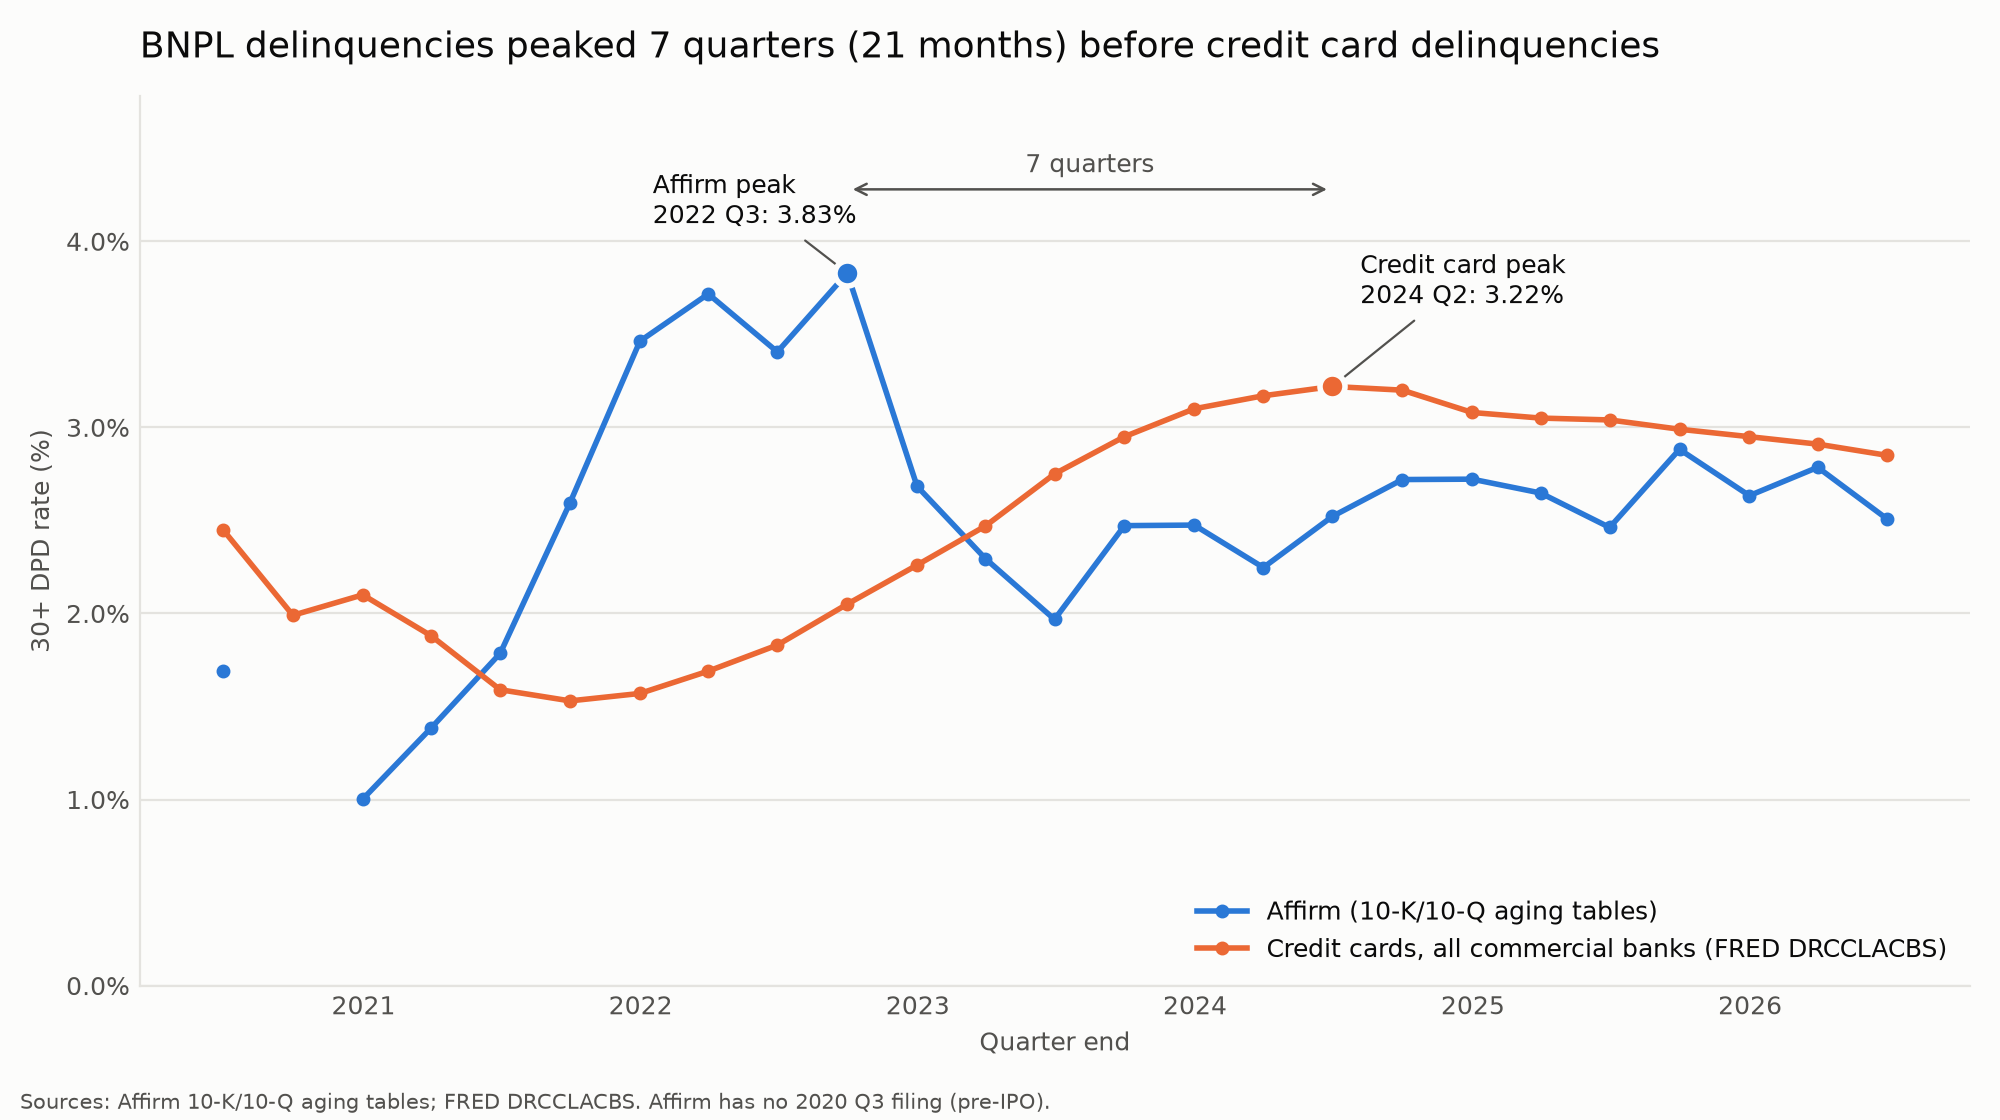
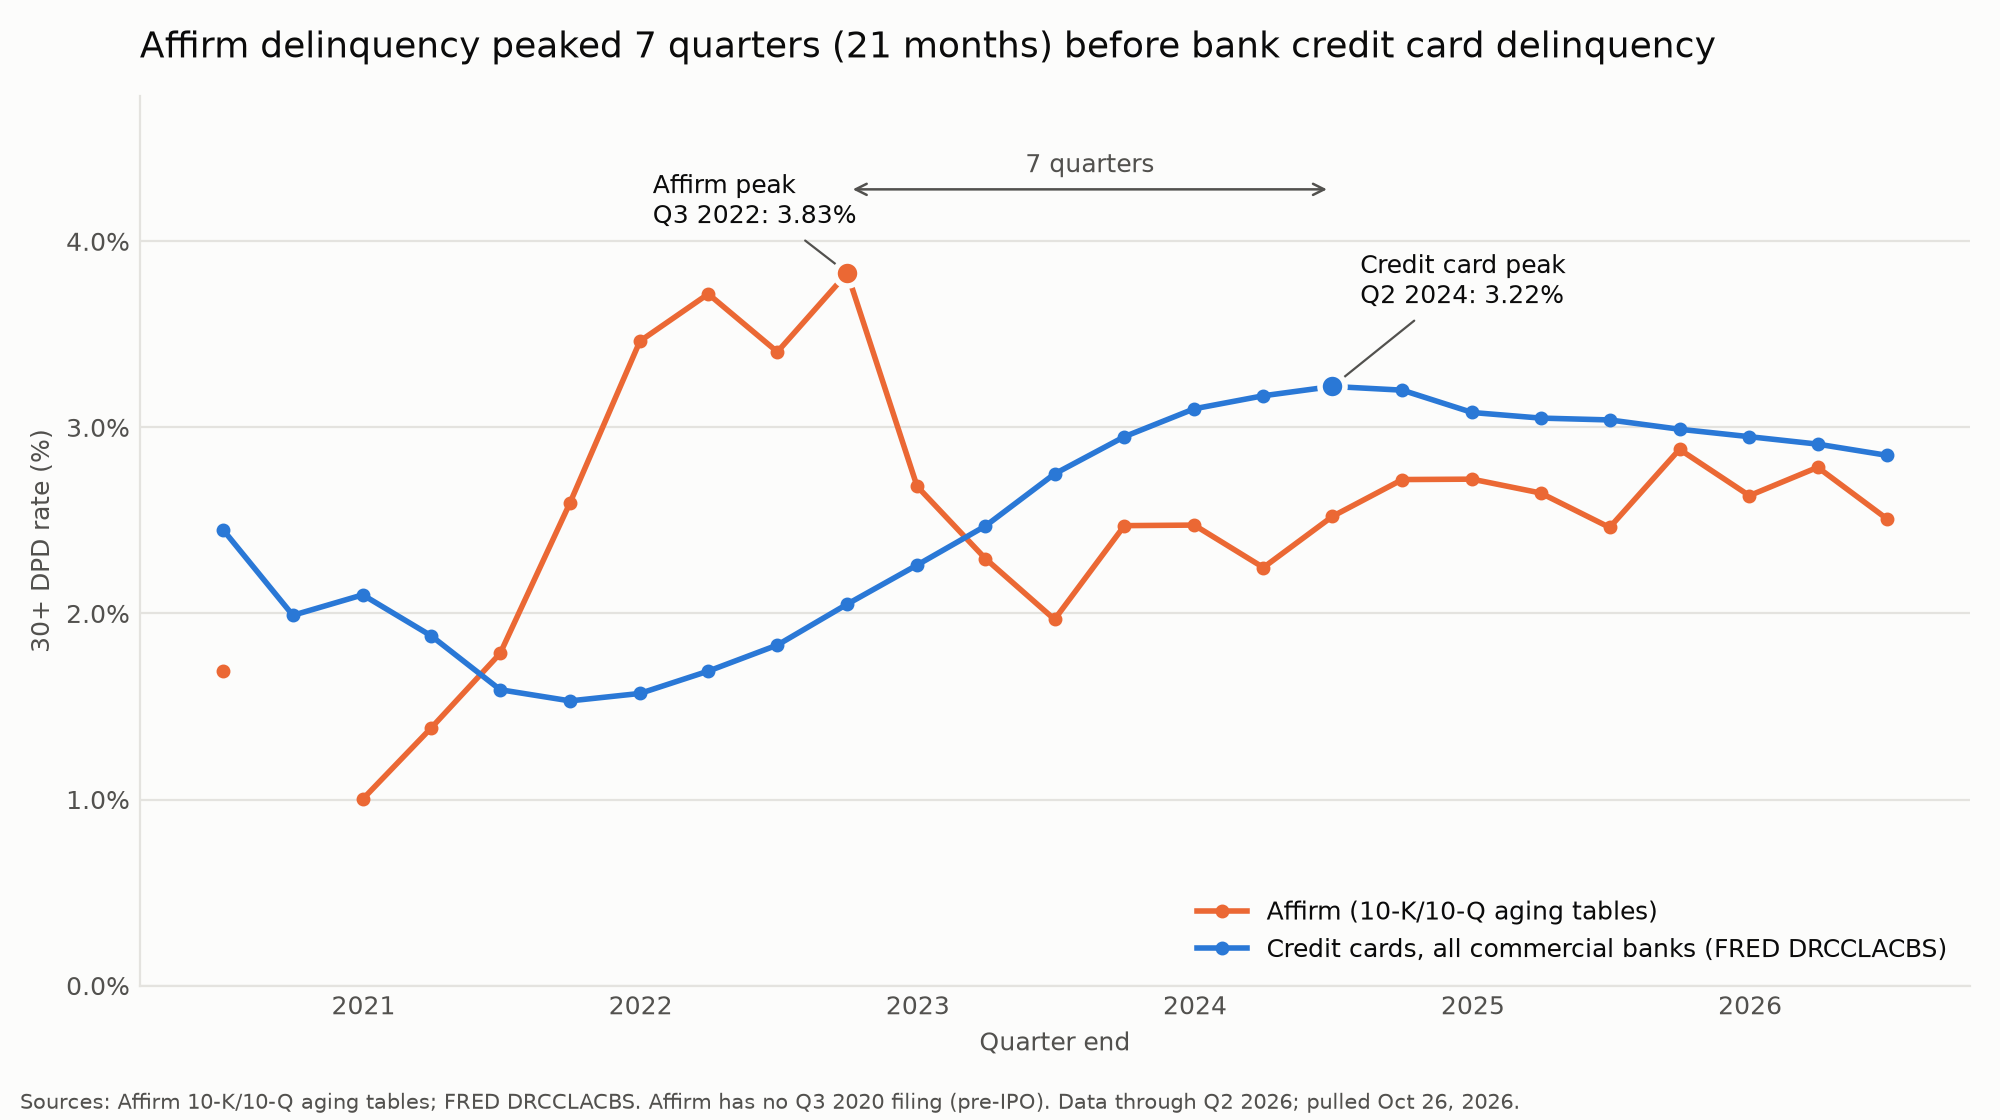
Tufte audit: log every visual, fix the failures it found
- docs/tufte_audit_log.md: 15 visuals against the five Lecture 12 tests,
  pre-filled for Samruddhi's peer review and sign-off
- Static headline chart: colors matched to the dashboard (they were
  reversed), title says Affirm not BNPL, Q3 2022 label format, as-of date
- Dashboard: as-of stamp on every chart subtitle
- README: point to the audit log

diff --git a/dashboard/index.html b/dashboard/index.html
@@ -56,6 +56,8 @@
   .page-intro h1 { font-size: 24px; margin: 0; letter-spacing: -.01em; }
   .page-intro p { margin: 0; color: var(--ink-2); font-size: 14px; }
   .hint { color: var(--muted); font-size: 12px; }
+  .asof { color: var(--muted); font-size: 12px; white-space: nowrap; }
+  .asof::before { content: "· "; }
 
   /* Executive conclusion card */
   .conclusion { border-left: 5px solid var(--duke); cursor: pointer; transition: box-shadow .15s; }
@@ -257,6 +259,8 @@ const STATUS = {
   none: { icon: '●', text: 'No trigger' }, watch: { icon: '▲', text: 'Watch' },
   trigger: { icon: '■', text: 'Trigger' }, 'n/a': { icon: '–', text: 'No year-ago filing' },
 };
+// As-of stamp for chart subtitles (Lecture 12: units and as-of date on every visual).
+const asOf = () => `<span class="asof">Data through ${M.latest_label} · pulled ${new Date(M.sec_pulled + 'T00:00:00Z').toLocaleDateString('en-US', { month: 'short', day: 'numeric', year: 'numeric', timeZone: 'UTC' })}.</span>`;
 const statusChip = s => `<span class="status ${s === 'n/a' ? 'na' : s}"><i aria-hidden="true">${STATUS[s].icon}</i>${STATUS[s].text}</span>`;
 const verdict = v => `<span class="verdict ${v}"><i aria-hidden="true">${v === 'Hold' ? '●' : v === 'Narrow' ? '▲' : '■'}</i>${v}</span>`;
 const trig = `+${T.trigger_pp.toFixed(2)} pp`;
@@ -451,13 +455,13 @@ function executive() {
 
     <section class="panel s12">
       <h2 id="hero-title"></h2>
-      <p class="desc">Share of balances 30+ days late. Shaded: quarters the trigger fired. <span class="hint">Click a point for that quarter.</span></p>
+      <p class="desc">Share of balances 30+ days late. Shaded: quarters the trigger fired. ${asOf()} <span class="hint">Click a point for that quarter.</span></p>
       <div id="hero" style="height:420px"></div>
     </section>
 
     <section class="panel s12">
       <h2 id="sav-title"></h2>
-      <p class="desc">Personal saving rate, % of disposable income, quarterly average of monthly data. Lower means less cash cushion. Same timeline as above.</p>
+      <p class="desc">Personal saving rate, % of disposable income, quarterly average of monthly data. Lower means less cash cushion. Same timeline as above. ${asOf()}</p>
       <div id="sav" style="height:220px"></div>
       <p class="kicker" style="margin-top:14px">Two signals, two jobs</p>
       <ol class="recs" style="grid-template-columns:repeat(auto-fit,minmax(300px,1fr))">
@@ -545,7 +549,7 @@ function analyst() {
     <section class="panel s12"><h2 id="t-shift"></h2>
       <p class="desc" id="d-shift"></p><div id="c-shift" style="height:380px"></div></section>
     <section class="panel s7"><h2 id="t-corr"></h2>
-      <p class="desc">Whiskers: 95% ${ab('CI')}, adjusted for overlapping quarters. Under each bar: pairs, then ≈ independent pairs.
+      <p class="desc">Whiskers: 95% ${ab('CI')}, adjusted for overlapping quarters. Under each bar: pairs, then ≈ independent pairs. ${asOf()}
         <span class="hint">Click a bar to see its pairs.</span></p>
       <div id="c-corr" style="height:330px"></div></section>
     <section class="panel s5"><h2>Peaks are ${qWord(K.lead_q)} apart; troughs only ${K.trough_gap_q}</h2>
@@ -564,7 +568,7 @@ function analyst() {
       </table></div></section>
 
     <section class="panel s6"><h2 id="t-den"></h2>
-      <p class="desc">The strongest objection, at full size. New loans haven't had time to go late, so fast growth pulls the rate down.</p>
+      <p class="desc">The strongest objection, at full size. New loans haven't had time to go late, so fast growth pulls the rate down. ${asOf()}</p>
       <div id="c-den" style="height:300px"></div></section>
     <section class="panel s6"><h2>Measure definitions</h2>
       <p class="desc">How every number is computed. Status colors come from the Signal rule.</p>
@@ -709,7 +713,7 @@ function regulator() {
     </div></section>
 
     <section class="panel s12"><h2>30+ day delinquency rate: Affirm Holdings and U.S. commercial bank credit cards, quarterly</h2>
-      <p class="desc">% of balances 30+ days past due. Reporting changes are marked. <span class="hint">Click a point for its source.</span></p>
+      <p class="desc">% of balances 30+ days past due. Reporting changes are marked. ${asOf()} <span class="hint">Click a point for its source.</span></p>
       <div id="reg" style="height:400px"></div></section>
 
     <section class="panel s12"><h2>Headline figures and how each is reproduced</h2>

diff --git a/scripts/chart_lead_lag.py b/scripts/chart_lead_lag.py
@@ -28,9 +28,9 @@ START, END = "2020-06-30", "2026-06-30"
 OUT_DIR = Path("outputs")
 OUT_DIR.mkdir(parents=True, exist_ok=True)
 
-# Categorical slots 1-2 of the dataviz reference palette (light mode).
-AFFIRM_COLOR = "#2a78d6"
-CC_COLOR     = "#eb6834"
+# Same colors as the dashboard (--affirm, --cards) so a series means one color everywhere.
+AFFIRM_COLOR = "#eb6834"
+CC_COLOR     = "#2a78d6"
 TEXT         = "#0b0b0b"
 TEXT_MUTED   = "#52514e"
 GRID         = "#e4e3df"
@@ -51,7 +51,7 @@ def peak(s: pd.Series) -> tuple[pd.Timestamp, float]:
 
 
 def quarter_label(ts: pd.Timestamp) -> str:
-    return f"{ts.year} Q{ts.quarter}"
+    return f"Q{ts.quarter} {ts.year}"
 
 
 def main():
@@ -90,7 +90,7 @@ def main():
     ax.text(a_q + (c_q - a_q) / 2, y + 0.06, f"{lag} quarters",
             ha="center", va="bottom", fontsize=9, color=TEXT_MUTED)
 
-    ax.set_title("BNPL delinquencies peaked 7 quarters (21 months) before credit card delinquencies",
+    ax.set_title("Affirm delinquency peaked 7 quarters (21 months) before bank credit card delinquency",
                  loc="left", fontsize=13, color=TEXT, pad=14)
     ax.set_xlabel("Quarter end", color=TEXT_MUTED, fontsize=9)
     ax.set_ylabel("30+ DPD rate (%)", color=TEXT_MUTED, fontsize=9)
@@ -109,7 +109,7 @@ def main():
 
     fig.text(0.01, 0.01,
              "Sources: Affirm 10-K/10-Q aging tables; FRED DRCCLACBS. "
-             "Affirm has no 2020 Q3 filing (pre-IPO).",
+             "Affirm has no Q3 2020 filing (pre-IPO). Data through Q2 2026; pulled Oct 26, 2026.",
              fontsize=7.5, color=TEXT_MUTED)
     fig.tight_layout(rect=(0, 0.03, 1, 1))
 

diff --git a/docs/tufte_audit_log.md b/docs/tufte_audit_log.md
@@ -1,0 +1,34 @@
+# Tufte Audit Log
+
+**Project Audible · FINTECH 590.05 · Fall 2026**
+
+Every visual in the dashboard and the static headline chart, checked against the five Lecture 12 tests: data-ink, chartjunk, lie factor, graphical integrity and data density. ✓ = passed as found, ✗ = failed as found, then fixed in the "Change made" column. Lie factor is the size of the effect shown divided by the size of the effect in the data (Tufte's tolerance is 0.95 to 1.05). Every length or position axis below starts at zero and is linear, so the lie factor is 1.0 unless a row says otherwise.
+
+Pre-filled by Abhinav Sharaff (dashboard author). The lecture requires a peer audit, so Samruddhi Shrawne reviews each row and signs below. Any row she disagrees with gets changed before the defense.
+
+| Visual | Page | Ink | Junk | Lie | Integ. | Density | Change made |
+|---|---|---|---|---|---|---|---|
+| V-01 Conclusion card (7 quarters, peaks, trigger status) | Executive | ✓ | ✓ | n/a (number) | ✓ | ✓ | Headline restated for the reframed position: saving rate first, Affirm confirms, cards 7 quarters after Affirm (PR #9) |
+| V-02 Affirm vs card 30+ DPD, quarterly | Executive | ✓ | ✓ | ✓ 1.0 | ✗ | ✓ | Added as-of stamp to the subtitle. Peaks labeled directly; trigger quarters lightly shaded |
+| V-03 Personal saving rate, quarterly | Executive | ✓ | ✓ | ✓ 1.0 | ✗ | ✓ | Built as a separate chart on its own axis, not a second y-axis on V-02 (PR #7). Added as-of stamp. Single series, so no legend |
+| V-04 Trigger status chip | Executive | ✓ | ✓ | n/a | ✓ | ✓ | None. Status shown by icon and text, not color alone |
+| V-05 Leading series shifted against cards | Risk | ✓ | ✓ | ✓ 1.0 | ✓ | ✓ | None. Different units go on stacked panels, never a dual axis. The saving rate plots on a flipped axis (lower rate plots higher), labeled in the axis title and the subtitle. Window shown in the subtitle |
+| V-06 Correlation by lag, with adjusted 95% CI | Risk | ✓ | ✓ | ✓ 1.0 | ✗ | ✓ | Added as-of stamp. Fixed −1 to +1 axis with a zero line (never auto-scaled). Pairs and effective pairs printed under each bar |
+| V-07 Affirm 30+ DPD balances, $M | Risk | ✓ | ✓ | ✓ 1.0 | ✗ | ✓ | Added as-of stamp. Bars start at zero; the peak quarter is highlighted, the rest muted |
+| V-08 Peaks/troughs and trigger history tables | Risk | ✓ | ✓ | n/a | ✓ | ✓ | None |
+| V-09 Position ledger (14 checks) | Risk | ✓ | ✓ | n/a | ✓ | ✓ | None. Verdicts shown by icon and word, not color alone |
+| V-10 Reported 30+ DPD with reporting changes marked | Compliance | ✓ | ✓ | ✓ 1.0 | ✗ | ✓ | Added as-of stamp. Basis changes and Experian reporting date marked on the chart |
+| V-11 Headline figures and how each is reproduced | Compliance | ✓ | ✓ | n/a | ✓ | ✓ | None. Open item: rows do not cite fact-ledger IDs yet (see below) |
+| V-12 Source register, one row per quarter | Compliance | ✓ | ✓ | n/a | ✓ | ✓ | Added saving-rate column (PR #7) |
+| V-13 Quarter drill-through: context chart and tiles | Drill-through | ✓ | ✓ | ✓ 1.0 | ✓ | ✓ | None. Selected quarter marked with a line; quarter named in the title |
+| V-14 Lag drill-through: scatter of quarter pairs | Drill-through | ✓ | ✓ | n/a (position, no zero needed for a scatter) | ✓ | ✓ | None. Window and effective pairs in the subtitle |
+| V-15 outputs/chart_lead_lag.png (static headline chart) | Repo / memo | ✓ | ✓ | ✓ 1.0 | ✗ | ✓ | Colors were the reverse of the dashboard (Affirm blue, cards orange); swapped to match. Title said "BNPL delinquencies"; now "Affirm delinquency". Quarter labels changed to "Q3 2022" format. Added data-through and pull date |
+
+## Open items
+
+- **Ledger IDs in tooltips (Lecture 12, "turn on").** V-11 and the chart tooltips don't cite the fact-ledger IDs (F-01 and so on) yet. We'll add them once the fact sheet's IDs are final, so the dashboard and fact sheet can't disagree.
+- **Panel cards.** Each visual sits on a white card with a 1 px border. This is page layout, not chart ink, so we kept it.
+
+## Peer sign-off
+
+Audited by Samruddhi Shrawne: ______________________ Date: ____________

diff --git a/README.md b/README.md
@@ -29,7 +29,7 @@ delinquency. It is a pattern from one credit cycle, not a forecast.
 - `data/processed/` — Clean quarterly CSVs used by the dashboard
 - `dashboard/` — Interactive dashboard (executive, analyst and regulator pages with drill-through)
 - `outputs/` — Rendered chart
-- `docs/` — Position memo (`position_memo.md`), technical memo (`technical_memo.md`) and cold-start log (`cold_start_log.md`)
+- `docs/` — Position memo (`position_memo.md`), technical memo (`technical_memo.md`), cold-start log (`cold_start_log.md`) and Tufte audit log (`tufte_audit_log.md`)
 - `llm-log/` — LLM validation log (`validation_log.md`)
 
 ## How to reproduce
